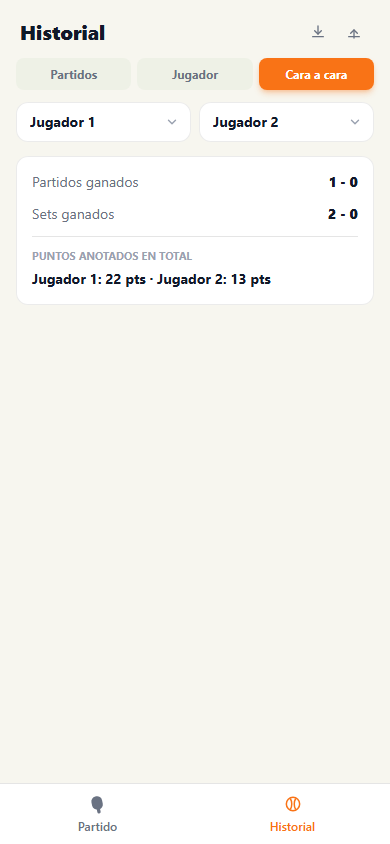
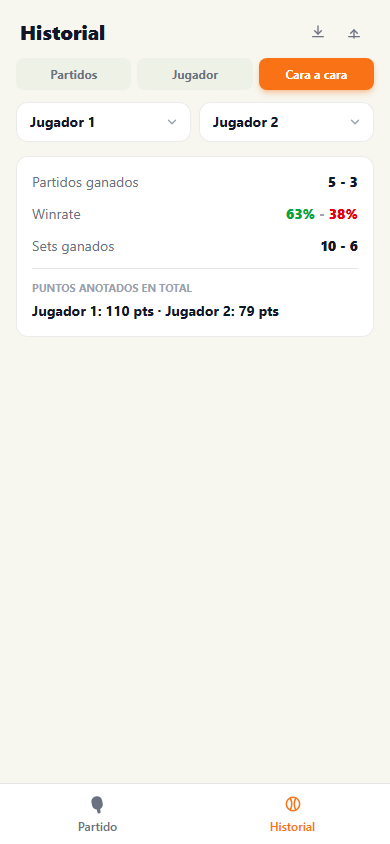
docs: actualiza capturas y descripcion del README con paginacion y winrate
El script de capturas ahora juega varios partidos para que las
imagenes reflejen la paginacion en Partidos y el winrate coloreado en
Cara a cara.

diff --git a/README.md b/README.md
@@ -30,9 +30,9 @@ Marcador grande y táctil (tap para sumar punto), pensado para usarse con el cel
 
 ### Historial — Partidos
 
-Lista de partidos jugados, con filtro por jugador y por rango de fechas (combinables entre sí). Cada partido se puede abrir para ver el detalle set por set, editar los nombres o borrarlo.
+Lista de partidos jugados, con filtro por jugador y por rango de fechas (combinables entre sí), paginada de a 7 partidos con navegación numerada. Cada partido se puede abrir para ver el detalle set por set, editar los nombres o borrarlo.
 
-<img src="docs/screenshots/03-historial-partidos.png" alt="Pestaña Partidos del historial, con filtros por jugador y fecha" width="320" />
+<img src="docs/screenshots/03-historial-partidos.png" alt="Pestaña Partidos del historial, con filtros por jugador y fecha, y paginación numerada" width="320" />
 
 ### Historial — Jugador
 
@@ -42,9 +42,9 @@ Totales individuales de un jugador: partidos ganados, sets ganados y puntos anot
 
 ### Historial — Cara a cara
 
-Comparación directa entre dos jugadores: partidos ganados por cada uno, sets ganados por cada uno, y el total de puntos anotados por cada uno en todos los sets que han jugado entre sí.
+Comparación directa entre dos jugadores: partidos ganados por cada uno, winrate del enfrentamiento (en verde para quien lleva ventaja, rojo para el otro, y azul si están empatados 50%/50%), sets ganados por cada uno, y el total de puntos anotados por cada uno en todos los sets que han jugado entre sí.
 
-<img src="docs/screenshots/05-historial-cara-a-cara.png" alt="Pestaña Cara a cara del historial comparando dos jugadores" width="320" />
+<img src="docs/screenshots/05-historial-cara-a-cara.png" alt="Pestaña Cara a cara del historial comparando dos jugadores, con winrate coloreado" width="320" />
 
 ### Compartir resultado
 
